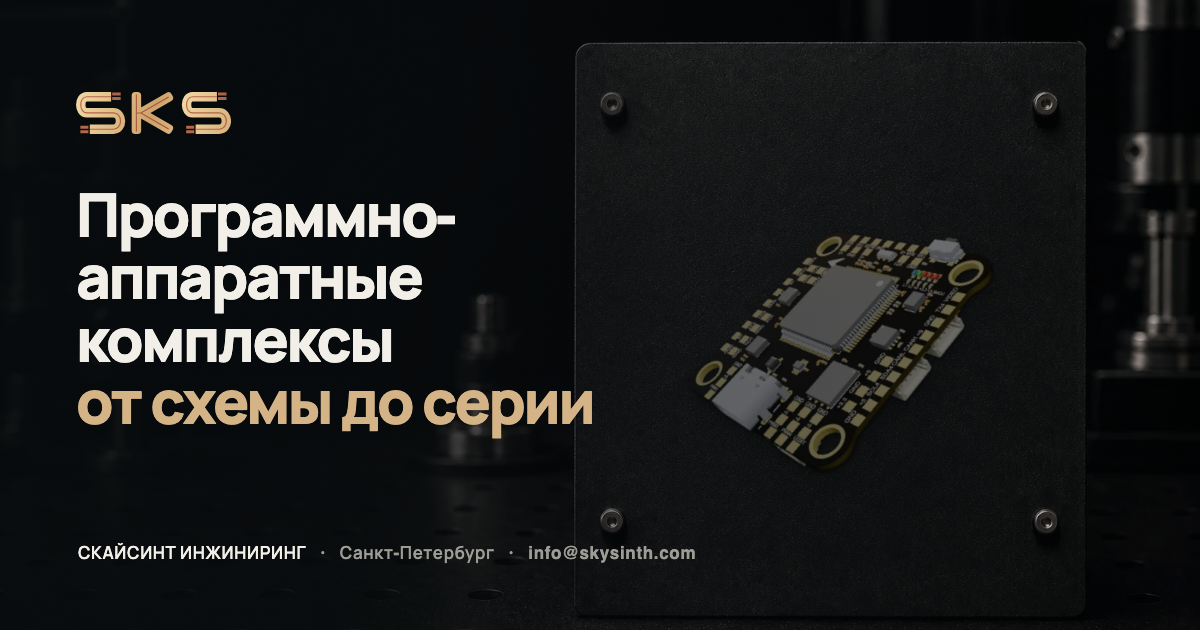
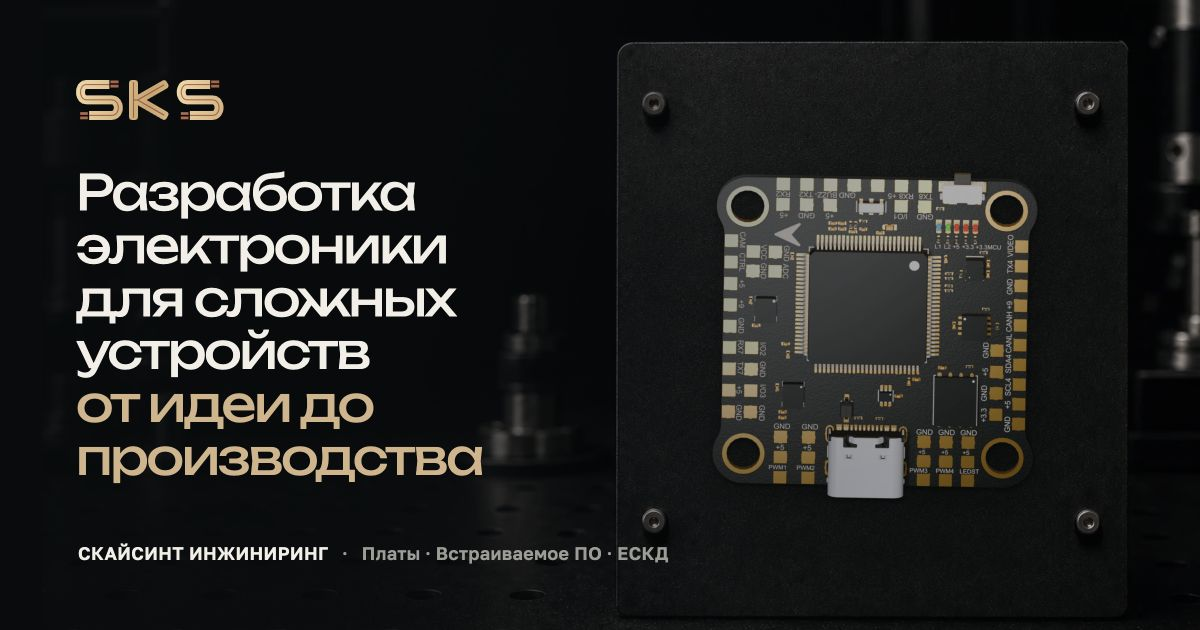
Refine compact mobile hero and social preview

diff --git a/public/og-source.html b/public/og-source.html
@@ -6,14 +6,19 @@
     <meta charset="UTF-8" />
     <style>
       @font-face {
-        font-family: "Manrope";
-        src: url("/assets/fonts/manrope-600.woff2") format("woff2");
-        font-weight: 600;
+        font-family: "Unbounded";
+        src: url("assets/fonts/unbounded-400-cyrillic.woff2") format("woff2");
+        font-weight: 400;
       }
       @font-face {
-        font-family: "Manrope";
-        src: url("/assets/fonts/manrope-800.woff2") format("woff2");
-        font-weight: 800;
+        font-family: "Unbounded";
+        src: url("assets/fonts/unbounded-500-cyrillic.woff2") format("woff2");
+        font-weight: 500;
+      }
+      @font-face {
+        font-family: "Golos Text";
+        src: url("assets/fonts/golos-text-600-cyrillic.woff2") format("woff2");
+        font-weight: 600;
       }
       * {
         box-sizing: border-box;
@@ -25,29 +30,30 @@
         overflow: hidden;
         position: relative;
         background: #080b0d;
-        font-family: "Manrope", sans-serif;
+        font-family: "Unbounded", sans-serif;
         color: #f2efe8;
       }
       .stage {
         position: absolute;
         inset: 0;
+        transform: translateX(42px);
       }
       .stage img {
         width: 100%;
         height: 100%;
         object-fit: cover;
-        object-position: 62% center;
+        object-position: 72% center;
       }
       /* Same board placement as the live hero composite, in og pixels. */
       .board {
         position: absolute;
-        top: 101px;
-        left: 600px;
-        width: 461px;
-        height: 461px;
+        top: 86px;
+        left: 630px;
+        width: 490px;
+        height: 490px;
         object-fit: contain;
         transform: rotate(-16.5deg) scale(0.96);
-        filter: brightness(0.72) contrast(1.16) saturate(1.08)
+        filter: brightness(1.12) contrast(1.18) saturate(1.08)
           drop-shadow(0 3px 2px rgba(0, 0, 0, 0.5))
           drop-shadow(0 11px 15px rgba(0, 0, 0, 0.3));
       }
@@ -64,21 +70,21 @@
       }
       .copy {
         position: absolute;
-        top: 92px;
+        top: 80px;
         left: 76px;
-        width: 620px;
+        width: 650px;
       }
       .logo {
-        height: 42px;
+        height: 40px;
         width: auto;
-        margin-bottom: 44px;
+        margin-bottom: 42px;
       }
       h1 {
         margin: 0;
-        font-size: 60px;
-        font-weight: 800;
-        letter-spacing: -0.04em;
-        line-height: 1.04;
+        font-size: 49px;
+        font-weight: 400;
+        letter-spacing: -0.045em;
+        line-height: 1.08;
       }
       h1 span {
         display: block;
@@ -94,9 +100,10 @@
         gap: 14px;
         align-items: center;
         color: #9d9d96;
-        font-size: 17px;
+        font-family: "Golos Text", sans-serif;
+        font-size: 18px;
         font-weight: 600;
-        letter-spacing: 0.04em;
+        letter-spacing: 0.02em;
       }
       .foot b {
         color: #f2efe8;
@@ -106,28 +113,26 @@
   </head>
   <body>
     <div class="stage">
-      <img src="/assets/images/hero-stage-dark-wide.webp" alt="" />
+      <img src="assets/images/hero-stage-dark-wide.webp" alt="" />
     </div>
     <img
       class="board"
-      src="/assets/images/boards/flight-controller-transparent.webp"
+      src="assets/images/boards/flight-controller-front-polished.webp"
       alt=""
     />
     <div class="veil"></div>
     <div class="copy">
-      <img class="logo" src="/brand/sks-logo-for-dark-bg.svg" alt="СКС" />
+      <img class="logo" src="brand/sks-logo-for-dark-bg.svg" alt="СКС" />
       <h1>
-        <span>Программно-аппаратные</span>
-        <span>комплексы</span>
-        <span>от схемы до серии</span>
+        <span>Разработка электроники</span>
+        <span>для сложных устройств</span>
+        <span>от идеи до производства</span>
       </h1>
     </div>
     <div class="foot">
       <b>СКАЙСИНТ ИНЖИНИРИНГ</b>
       <span>·</span>
-      <span>Санкт-Петербург</span>
-      <span>·</span>
-      <span>info@skysinth.com</span>
+      <span>Платы · Встраиваемое ПО · ЕСКД</span>
     </div>
   </body>
 </html>

diff --git a/src/styles.css b/src/styles.css
@@ -7917,6 +7917,12 @@ h2,
     overflow: hidden;
   }
 
+  .hero-mobile-composite {
+    position: absolute;
+    inset: 0;
+    transform-origin: 50% 0;
+  }
+
   .hero-mobile-stage {
     position: absolute;
     top: -8px;
@@ -8063,6 +8069,60 @@ h2,
 
   .contact-section .section-shell {
     padding-top: 32px;
+  }
+}
+
+/* Telegram and other compact in-app browsers can expose a noticeably shorter
+   visual viewport than Safari at the same nominal phone size. Keep the normal
+   393 x 852 composition untouched. On genuinely short/narrow screens, scale
+   and raise the complete stage + PCB composite as one object. Keep the PCB
+   fully opaque and clear of the heading; only the quiet photographed stage
+   dissolves into the page behind the copy. */
+
+@media (max-width: 430px) and (max-height: 800px),
+  (max-width: 620px) and (max-height: 720px) {
+  .hero-mobile-composite {
+    z-index: 4;
+    transform: translateY(-7%) scale(0.88);
+  }
+
+  .hero-mobile-scene {
+    bottom: 0;
+    height: auto;
+    -webkit-mask-image: none;
+    mask-image: none;
+  }
+
+  :root[data-theme] .hero-mobile-stage img {
+    -webkit-mask-image: linear-gradient(
+      180deg,
+      #000 0%,
+      #000 62%,
+      rgba(0, 0, 0, 0.86) 72%,
+      rgba(0, 0, 0, 0.5) 82%,
+      rgba(0, 0, 0, 0.16) 91%,
+      transparent 100%
+    );
+    mask-image: linear-gradient(
+      180deg,
+      #000 0%,
+      #000 62%,
+      rgba(0, 0, 0, 0.86) 72%,
+      rgba(0, 0, 0, 0.5) 82%,
+      rgba(0, 0, 0, 0.16) 91%,
+      transparent 100%
+    );
+  }
+
+  .hero-mobile-board {
+    -webkit-mask-image: none;
+    mask-image: none;
+  }
+}
+
+@media (max-width: 620px) and (max-height: 690px) {
+  .hero-mobile-composite {
+    transform: translateY(-7%) scale(0.82);
   }
 }
 

diff --git a/index.html b/index.html
@@ -53,6 +53,7 @@
     />
     <meta property="og:type" content="website" />
     <meta property="og:locale" content="ru_RU" />
+    <meta property="og:site_name" content="СКАЙСИНТ ИНЖИНИРИНГ" />
     <meta
       property="og:title"
       content="СКАЙСИНТ ИНЖИНИРИНГ. Программно-аппаратные комплексы"
@@ -61,7 +62,10 @@
       property="og:description"
       content="Схемотехника, топология печатных плат, встраиваемое ПО, испытания, ЕСКД и Gerber. Специализация — бортовая электроника для БПЛА и высокочастотные тракты."
     />
-    <meta property="og:image" content="%BASE_URL%og.png" />
+    <meta property="og:image" content="%BASE_URL%og.png?v=20260825" />
+    <meta property="og:image:type" content="image/png" />
+    <meta property="og:image:width" content="1200" />
+    <meta property="og:image:height" content="630" />
     <meta
       property="og:image:alt"
       content="СКАЙСИНТ ИНЖИНИРИНГ. Разработка электроники"
@@ -75,7 +79,7 @@
       name="twitter:description"
       content="Схемотехника, топология печатных плат, встраиваемое ПО, испытания, ЕСКД и Gerber."
     />
-    <meta name="twitter:image" content="%BASE_URL%og.png" />
+    <meta name="twitter:image" content="%BASE_URL%og.png?v=20260825" />
     <meta name="theme-color" content="#08090a" />
     <link rel="canonical" href="https://skysinth.com/" />
     <script type="application/ld+json">

diff --git a/src/App.jsx b/src/App.jsx
@@ -750,23 +750,25 @@ export function App() {
           <div className="hero-visual">
             {isCompact ? (
               <div className="hero-mobile-scene" aria-hidden="true">
-                <picture className="hero-mobile-stage">
+                <div className="hero-mobile-composite">
+                  <picture className="hero-mobile-stage">
+                    <img
+                      src={heroAsset.mobile}
+                      alt=""
+                      width="1085"
+                      height="1450"
+                      fetchPriority="high"
+                    />
+                  </picture>
                   <img
-                    src={heroAsset.mobile}
+                    className="hero-mobile-board"
+                    src={heroBoards[0].image}
                     alt=""
-                    width="1085"
-                    height="1450"
+                    width="1600"
+                    height="1600"
                     fetchPriority="high"
                   />
-                </picture>
-                <img
-                  className="hero-mobile-board"
-                  src={heroBoards[0].image}
-                  alt=""
-                  width="1600"
-                  height="1600"
-                  fetchPriority="high"
-                />
+                </div>
               </div>
             ) : (
               <Suspense

diff --git a/AGENTS.md b/AGENTS.md
@@ -90,6 +90,8 @@ Build app UI in `src/`. Keep `.openai/hosting.json`, `worker/index.js`, `scripts
 - Mobile hero alignment correction, latest 24.08.2026: enlarge and raise the photographed mounting plate slightly relative to the transparent PCB, lift its dark exposure enough to read the plate edges, and counter-rotate the baked angled PCB render by the same `-16.5deg` used on desktop so it sits straight on the fixture. Keep the static two-layer composition and do not introduce mobile WebGL. In dark mode keep the independent PCB restrained enough that it does not glow against the fixture, but do not bury it beneath the atmospheric veil. On the light theme the PCB sits above the pale veil with the same crisp contrast and grounded two-stage shadow as desktop; never wash it into a translucent grey silhouette.
 - Light-theme accent correction, latest 24.08.2026: emphasized words in hero and section headings stay black (`--fg`) on the light theme. The yellow-gold text treatment belongs only to the dark theme; the light-theme experiment was rejected.
 - Mobile hero theme parity, latest 24.08.2026: the complete stand and its independent PCB use the same raised position in dark and light themes so switching themes never moves the composition. Only the light photograph gets the lower alpha dissolve into `--bg`; never expose a hard horizontal image edge in the light hero.
+- Compact in-app browser correction, 25.08.2026: keep the accepted 393 x 852 mobile hero unchanged. On short or narrow visual viewports such as Telegram WebView, scale and raise the complete stage + PCB composite together so the board never changes size independently from its photographed mounting plate. Keep the PCB fully opaque and physically above the heading; apply the fog-like dissolve only to the quiet laboratory/table photograph behind it. Never mask the PCB itself or expose a diagonal cut across it. Cover the intermediate 399-403 x 720-768 range as well as the shortest screens; apply the same geometry in both themes and retain only the existing theme-specific exposure and shadows.
+- Social preview correction, 25.08.2026: keep the 1200 x 630 OG card consistent with the live hero and use the same exact flight-controller render. The complete mounting plate and PCB sit farther right so the factual headline never crosses the hardware; counter-rotate the baked board angle until its presentation reads upright, keep it clearly exposed against the dark plate, and use the site's self-hosted Unbounded and Golos Text fonts.
 - Light mobile gallery boundary, latest 24.08.2026: the `Разработки` laboratory photograph must fade in from the section's light `--bg` at its upper edge. Use the existing selector vignette so the board, title and controls stay crisp, preserve the accepted lower dissolve, and do not change the dark theme.
 - Mobile photographic boundary correction, latest 24.08.2026: in the light `Разработки` scene mask the top of `.board-selector-media` itself so Safari cannot reveal its rectangular edge; keep the live PCB and controls outside that mask. In the four-board contact strip, crop more of the empty upper laboratory area in both themes, keep all four boards fully opaque and complete, and begin the lower dissolve below their bases so no fog sits on the boards.
 - Light gallery information control, latest 24.08.2026: the circular `i` control in the light `Разработки` theme uses a matte white surface, dark readable glyph and restrained warm border/shadow. Keep the dark-theme control unchanged and preserve the existing accessible label, expanded state and focus ring.
